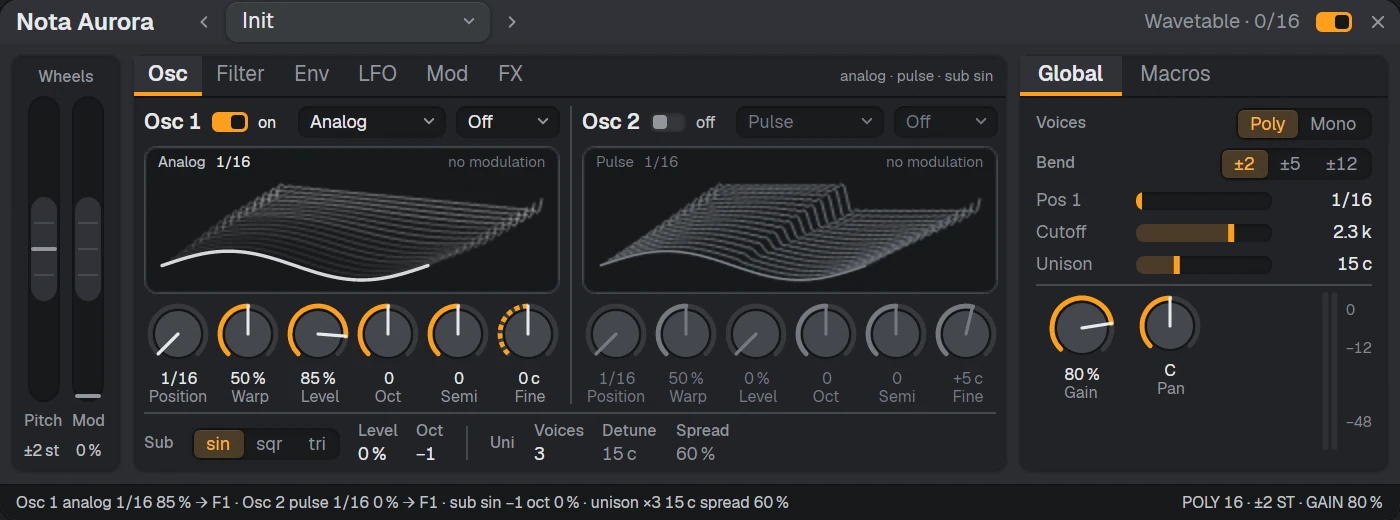
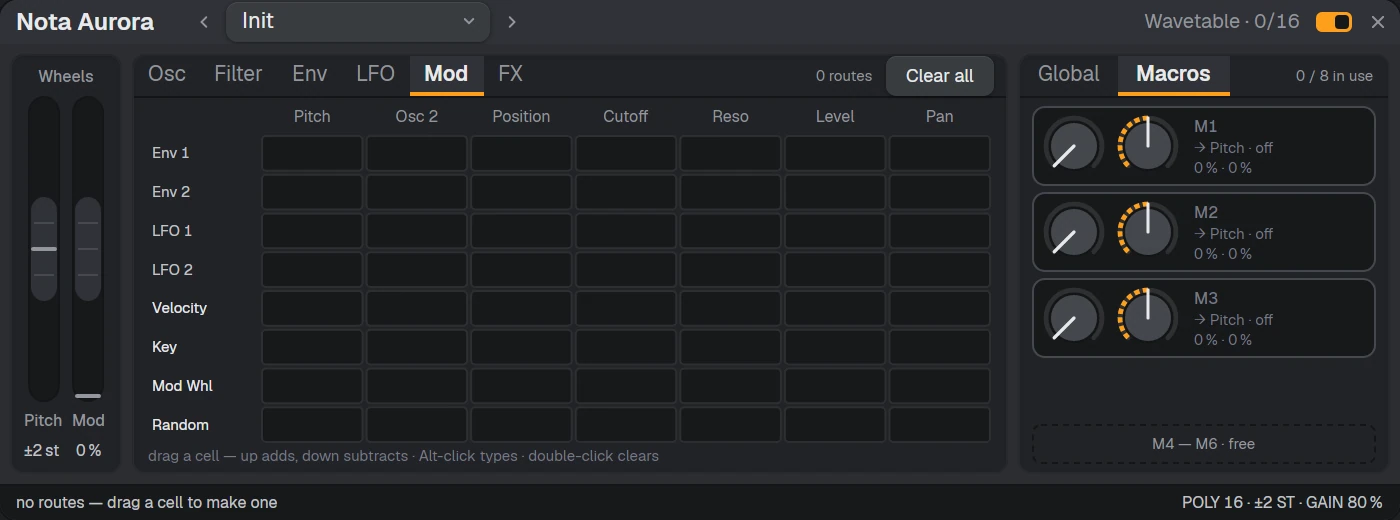
Aurora: the Mod shot shows the Mod tab; Fine without the modulation arc
"Mod" also captions the wheel, so the harness clicked that and the shot showed the Osc tab. A tab can now be picked by its n-th match ("Mod#2"). Card and import shots retaken with Fine's plain arc.

diff --git a/shots/app/Scenes.cs b/shots/app/Scenes.cs
@@ -216,7 +216,8 @@ public sealed class Scenes
         Pump();
         view.RefreshSynthLive();
         Pump();
-        // `tab` clicks one control by its text, or a chain of them: "L>Filter".
+        // `tab` clicks one control by its text, or a chain of them: "L>Filter". When the text shows
+        // more than once, "Mod#2" picks the second (in the window's visual order).
         if (shot.Str("tab") is string tab)
             foreach (var part in tab.Split('>', StringSplitOptions.TrimEntries | StringSplitOptions.RemoveEmptyEntries))
             {
@@ -688,11 +689,14 @@ public sealed class Scenes
 
     private static readonly Avalonia.Input.Pointer Mouse = new(1, PointerType.Mouse, true);
 
-    /// <summary>Click the control that shows <paramref name="text"/> — a tab, segment or button.</summary>
+    /// <summary>Click the control that shows <paramref name="text"/> — a tab, segment or button.
+    /// "text#n" clicks the n-th control showing that text, for a label that also shows elsewhere.</summary>
     private static void ClickText(Window win, string text)
     {
-        var tb = win.GetVisualDescendants().OfType<TextBlock>().FirstOrDefault(x => x.Text == text)
-                 ?? throw new ArgumentException($"no '{text}' on screen");
+        int nth = 1, hash = text.LastIndexOf('#');
+        if (hash > 0 && int.TryParse(text[(hash + 1)..], out int n) && n >= 1) { nth = n; text = text[..hash]; }
+        var tb = win.GetVisualDescendants().OfType<TextBlock>().Where(x => x.Text == text).Skip(nth - 1).FirstOrDefault()
+                 ?? throw new ArgumentException($"no '{text}' #{nth} on screen");
         // A button (tab segments, Downloads' switch) takes a Click; anything else a pointer press.
         if (tb.GetVisualAncestors().OfType<Button>().FirstOrDefault() is { } button)
         {
